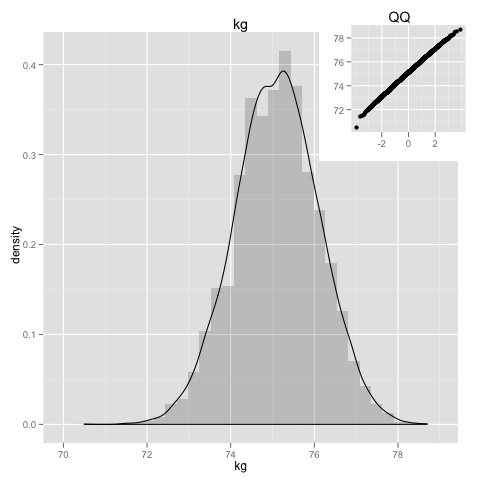
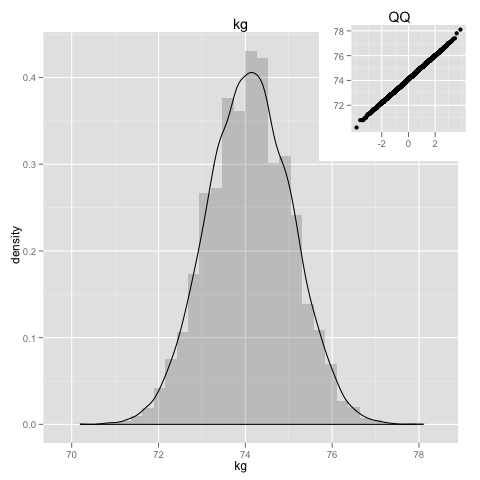
wloss update

diff --git a/_posts/2011-02-05-weight-loss-predictor.html b/_posts/2011-02-05-weight-loss-predictor.html
@@ -42,7 +42,7 @@ Have been tracking my weight using google spreadsheets, so i can get the data in
 <pre class="src src-R"><span style="color: #b22222;"># </span><span style="color: #b22222;">load the data
 </span>mydata = read.csv(<span style="color: #8b2252;">"http://spreadsheets.google.com/pub?key=0AnypY27pPCJydEwzYWxYWG1CcEpPLVQySTRrWml4OEE&amp;hl=en_GB&amp;single=true&amp;gid=3&amp;output=csv"</span>, header = <span style="color: #228b22;">TRUE</span>, na.strings = <span style="color: #8b2252;">"#VALUE!"</span>) 
 
-<span style="color: #b22222;"># </span><span style="color: #b22222;">remove NA's
+<span style="color: #b22222;"># </span><span style="color: #b22222;">re - Something in Javascript? move NA's
 </span>mydata = na.omit(mydata)
 
 <span style="color: #b22222;"># </span><span style="color: #b22222;">Create a new column with the proper date format
@@ -54,12 +54,12 @@ tail(mydata, 5)
 
 
 <pre class="example">
-     timestamp   kg delta       day
-151 2011-03-16 75.6   0.2 Wednesday
-152 2011-03-17 75.5  -0.1  Thursday
-153 2011-03-18 75.6   0.1    Friday
-154 2011-03-19 76.1   0.5  Saturday
-155 2011-03-20 76.0  -0.1    Sunday
+     timestamp   kg delta      day
+159 2011-03-24 75.1  -0.4 Thursday
+160 2011-03-25 74.9  -0.2   Friday
+161 2011-03-26 74.7  -0.2 Saturday
+162 2011-03-27 74.7   0.0   Sunday
+163 2011-03-28 75.0   0.3   Monday
 </pre>
 
 
@@ -107,7 +107,8 @@ gghist(mydata, <span style="color: #8b2252;">"kg"</span>)
 <img src="http://al3xandr3.github.com/img/w-loss-normal.png" alt="http://al3xandr3.github.com/img/w-loss-normal.png" />
 </p>
 <p>
-Its close to normal distribution and says my weight has been mostly(in average) 80.5kg.
+Could probably extract 3 different normal distributions from the above plot. But overall is nor far off from the normal distribution.
+Before diet, for the past 4 years, my weight has been mostly(in average) 80.5kg, going up a lot in the last 6 months or so.
 </p>
 </div>
 </div>
@@ -170,12 +171,12 @@ dietalldays$delta = c(0, kgdelta)
 
 
 <pre class="example">
-    timestamp   kg delta       day
-59 2011-03-16 75.6   0.2 Wednesday
-60 2011-03-17 75.5  -0.1  Thursday
-61 2011-03-18 75.6   0.1    Friday
-62 2011-03-19 76.1   0.5  Saturday
-63 2011-03-20 76.0  -0.1    Sunday
+    timestamp   kg delta      day
+67 2011-03-24 75.1  -0.4 Thursday
+68 2011-03-25 74.9  -0.2   Friday
+69 2011-03-26 74.7  -0.2 Saturday
+70 2011-03-27 74.7   0.0   Sunday
+71 2011-03-28 75.0   0.3   Monday
 </pre>
 
 
@@ -208,7 +209,7 @@ summary(mcWeightWeek)
 
 <pre class="example">
    Min. 1st Qu.  Median    Mean 3rd Qu.    Max. 
-  70.50   74.42   75.10   75.10   75.78   78.70
+  70.20   73.40   74.10   74.10   74.77   78.10
 </pre>
 
 
@@ -261,7 +262,7 @@ summary(mcDays75)
 
 <pre class="example">
    Min. 1st Qu.  Median    Mean 3rd Qu.    Max. 
-  1.000   4.000   7.000   9.641  12.000 119.000
+      0       0       0       0       0       0
 </pre>
 
 
@@ -304,20 +305,41 @@ Also note that, weight loss is faster at the beginning of a diet, it tends to sl
 But as you see the slow carb diet seems to work, even without exercise. Tim's book is great, focusing on the smallest things possible for the bigger results(=efficiency).
 </p>
 </div>
+</div>
 
 </div>
 
-<div class="outline-3" id="outline-container-2_3">
-<h3 id="sec-2_3">References </h3>
-<div class="outline-text-3" id="text-2_3">
+<div class="outline-2" id="outline-container-3">
+<h2 id="sec-3"><i>Results Update</i> </h2>
+<div class="outline-text-2" id="text-3">
 
 
 <p>
-Hard drive occupation prediction with R: 
-<a href="http://lpenz.github.com/articles/df0pred-1/index.html">part 1</a> and <a href="http://lpenz.github.com/articles/df0pred-2/index.html">part 2</a>, and thanks to Leandro Penz on the feedback.
-</p></div>
-</div>
-</div>
-<div id="postamble">
+Got to 75.0kg on 25 March!!!! Thats 67 days (aprox. 9 weeks) for a 9kg loss, thus aprox. 1kg per week. Which is within the recommended(0.9kg per week) weight loss recommendations. Thus am now within normal <a href="http://www.wolframalpha.com/input/?i=bmi+75kg+1.76m">BMI values</a>.
+</p>
+<p>
+Regarding the diet itself i have to mention that a key food were lentils, that replaced all pasta, potato and rice, and became the main food. Around the 77kg, where i plateau'd the weight for a while, i relaxed the strict low carb diet and adopted some ideas from the <a href="http://www.southbeachdiet.com/sbd/publicsite/index.aspx">South Beach Diet</a>, that allows to add other things in moderation and makes a distinction between good and bad carbs, also stopped the binging(over-eating) 1 day per week.
+This diet was done without any gym or sports, it was all about the food, will soon start to add some sport into the equation and see.
+</p>
+<p>
+The predictor was surprisingly good, even with little data on the beginning of diet. With time there'a tendency to slow down, that is expected, so maybe adding a weight giving more importance to the most recent measures could improve accuracy in weight loss prediction with monte carlo methods.
+</p>
 
 </div>
+
+<div class="outline-3" id="outline-container-3_1">
+<h3 id="sec-3_1">References </h3>
+<div class="outline-text-3" id="text-3_1">
+
+
+<ul>
+<li>Hard drive occupation prediction with R: <a href="http://lpenz.github.com/articles/df0pred-1/index.html">part 1</a> and <a href="http://lpenz.github.com/articles/df0pred-2/index.html">part 2</a>, and thanks to Leandro Penz on the feedback.
+</li>
+<li>Big thanks for Tim's book and Ze's gift, on jumpstarting this experiment!
+</li>
+</ul>
+
+</div>
+</div>
+</div>
+
